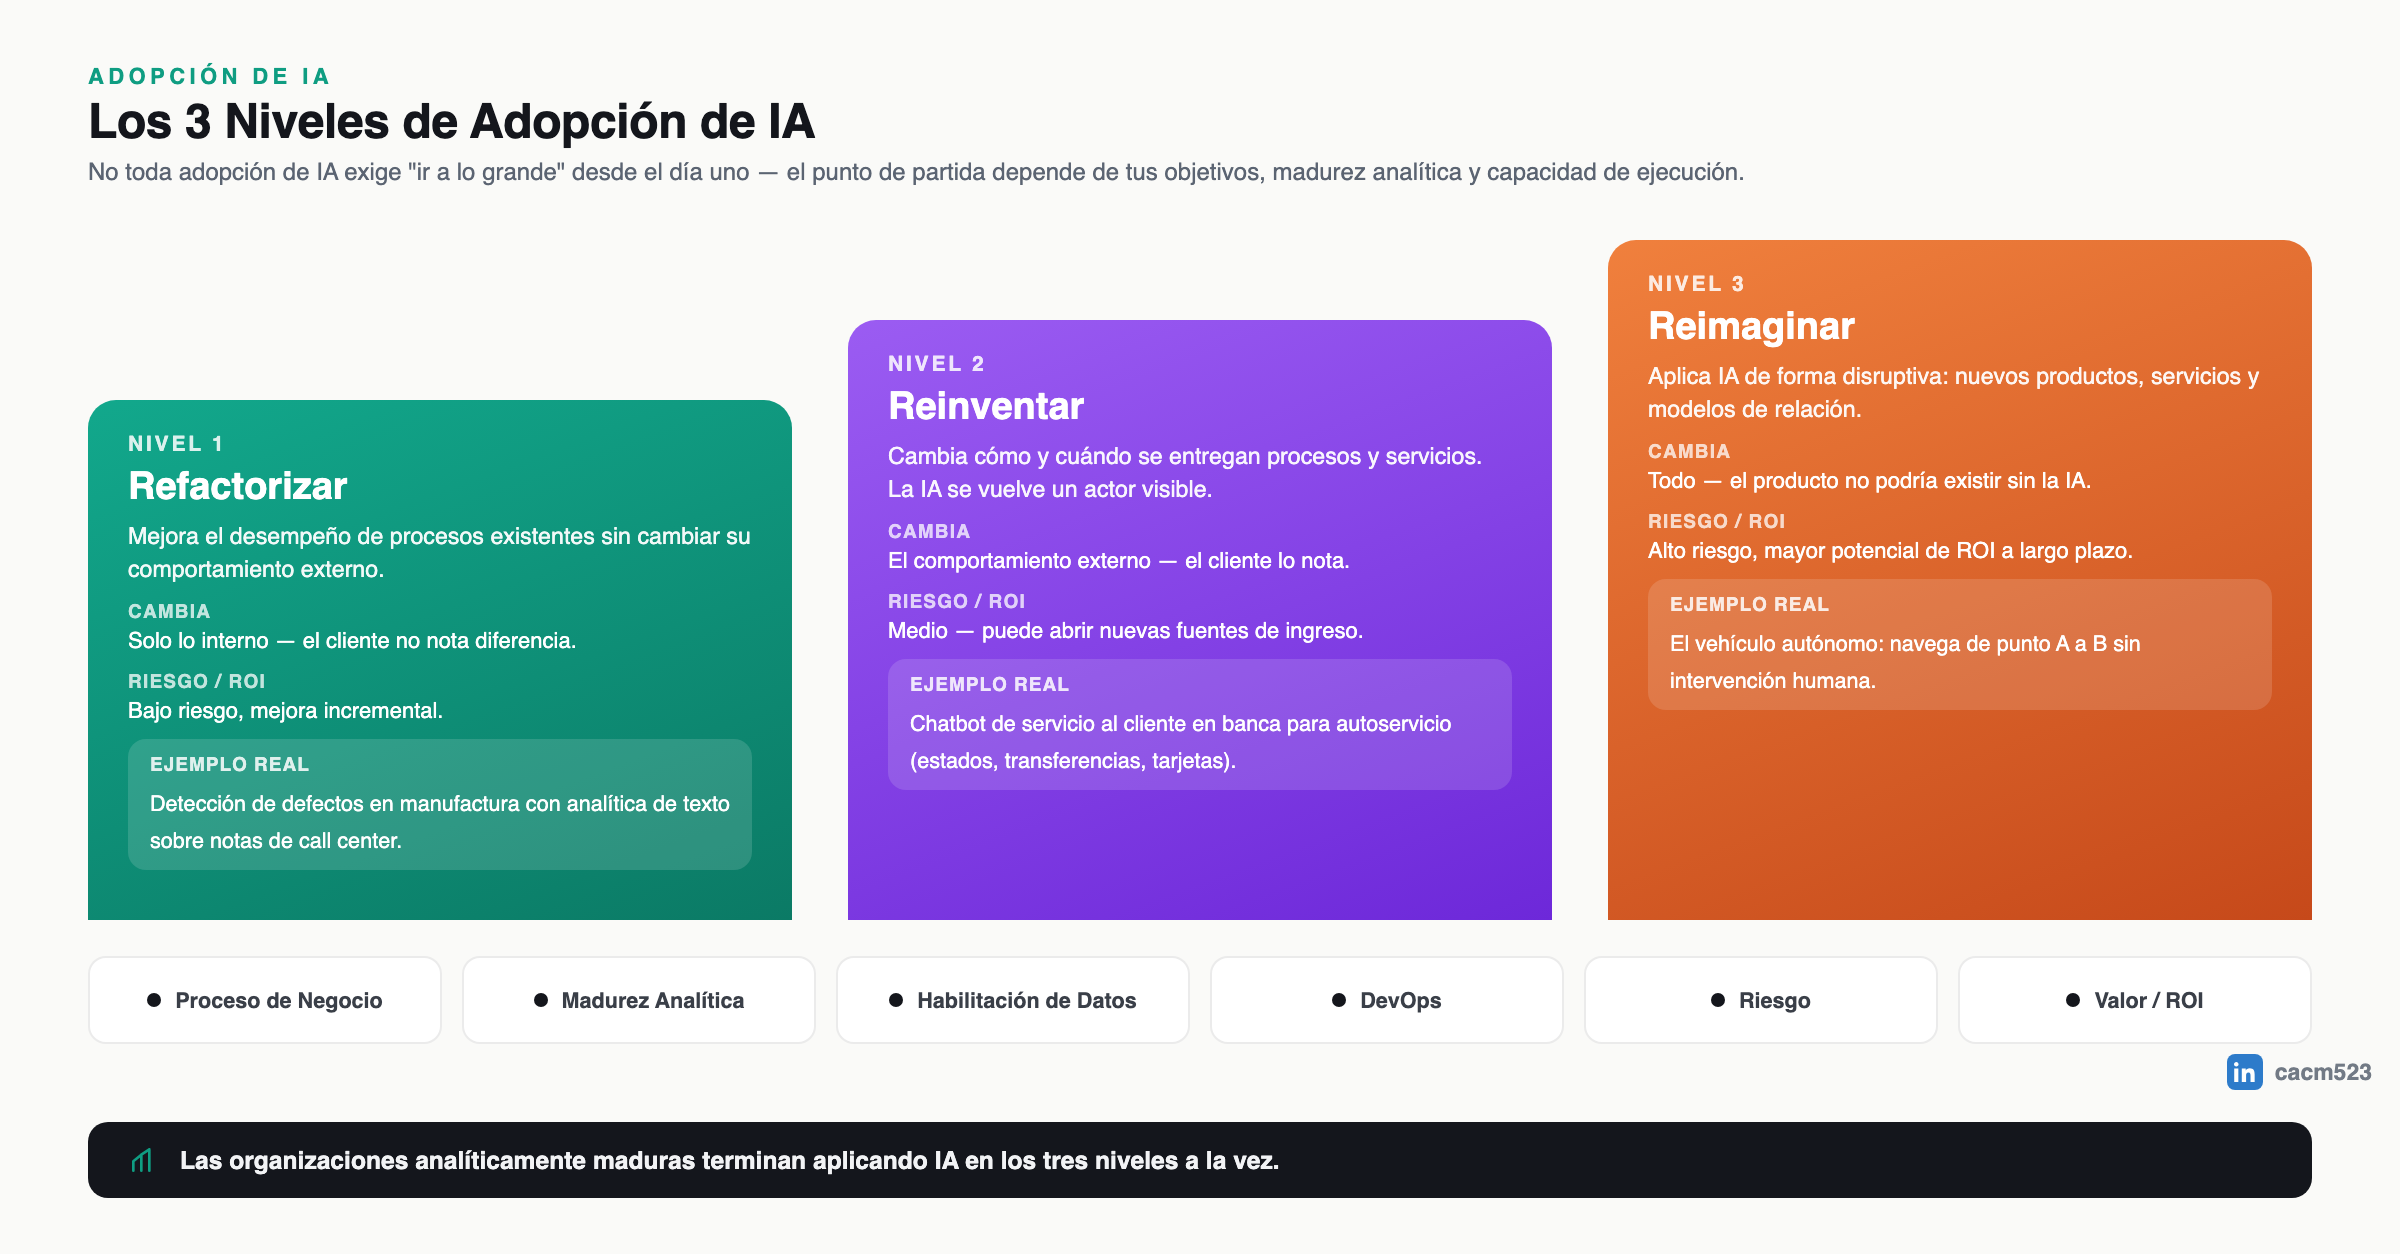
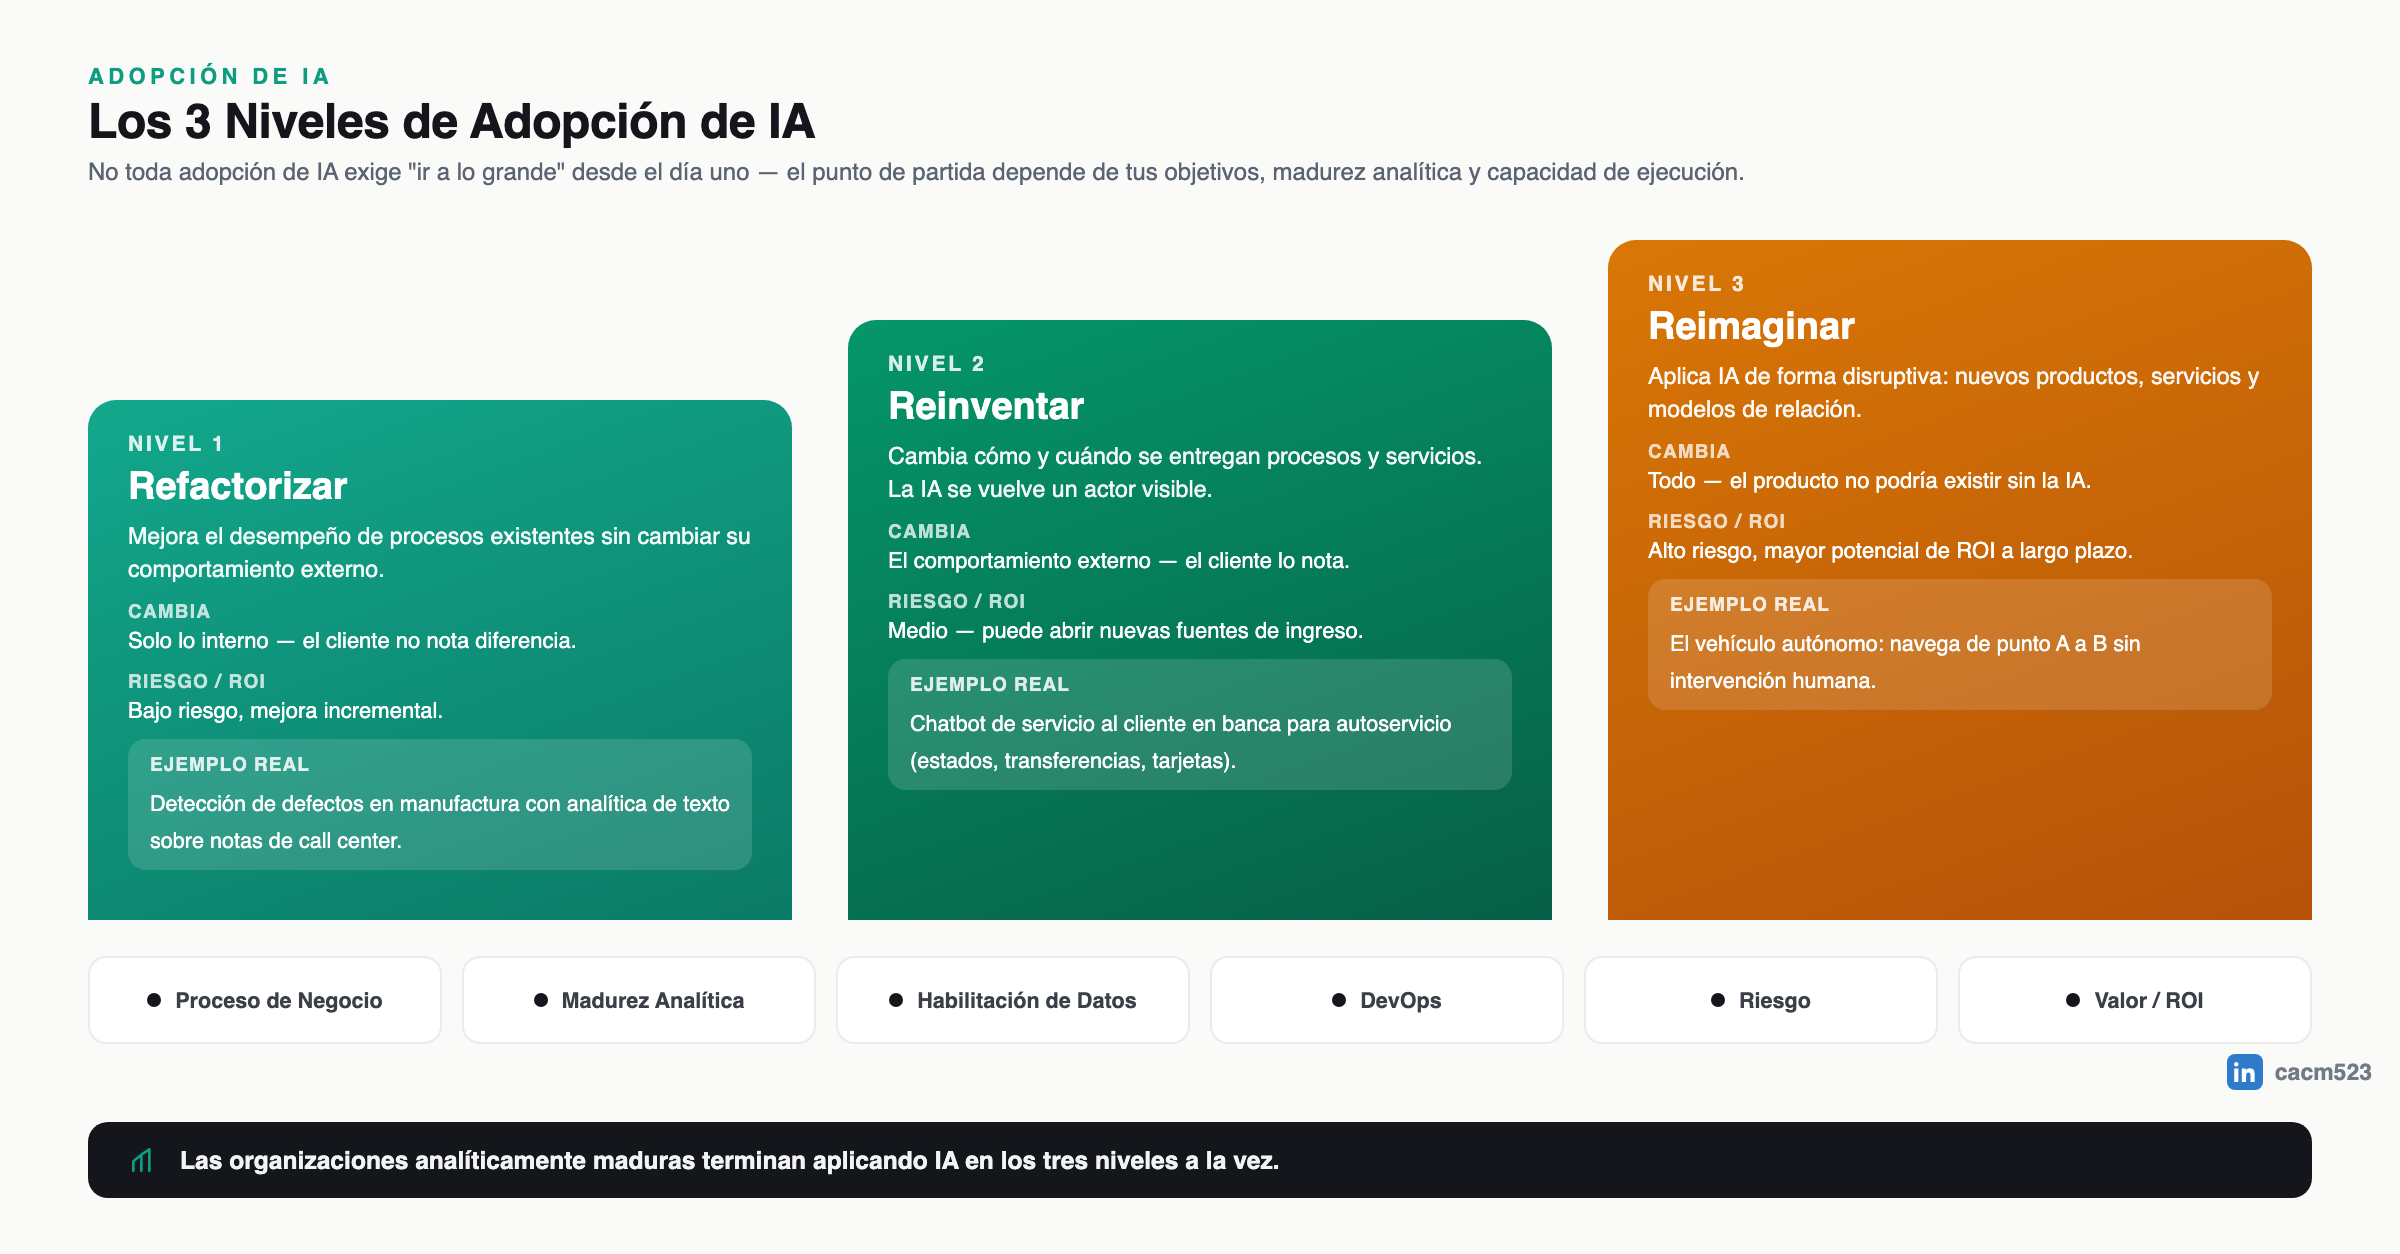
Tanda 2 (inteligencia-artificial): corrige paleta fuera de sistema en 2 de 3 piezas
- metricas-modelos-ia: de azul/verde a tierra/verde para las dos categorías de métricas
- adopcion-ia: Nivel 2 de púrpura a verde intermedio, Nivel 3 ajustado al tono tierra del spec
- algoritmos-machine-learning-normalizacion: revisada, ya cumplía el sistema de diseño, sin cambios

Changed region(s): [[0.3438, 0.1866, 0.9688, 0.7464]]

diff --git a/Construidos/Metricas_Modelos_IA/metricas-modelos-ia.html b/Construidos/Metricas_Modelos_IA/metricas-modelos-ia.html
@@ -8,7 +8,7 @@
   body { width:1264px; height:691px; padding:32px; background:#EDEFF3; font-family:-apple-system,"SF Pro Display","Segoe UI",Inter,Helvetica,Arial,sans-serif; }
   .canvas { position:relative; width:1200px; height:627px; background:#FAFAF8; overflow:hidden; }
 
-  .eyebrow { position:absolute; top:28px; left:42px; font-size:10.5px; font-weight:700; letter-spacing:2.1px; color:#2B4C9E; text-transform:uppercase; }
+  .eyebrow { position:absolute; top:28px; left:42px; font-size:10.5px; font-weight:700; letter-spacing:2.1px; color:#92400E; text-transform:uppercase; }
   .title { position:absolute; top:42px; left:42px; font-size:21px; font-weight:800; color:#14161C; letter-spacing:-0.2px; }
   .subtitle { position:absolute; top:68px; left:42px; width:1116px; font-size:11.2px; color:#5B6472; }
 
@@ -51,13 +51,13 @@
   <div class="tables">
 
     <div class="tcol">
-      <div class="thead"><div class="dot" style="background:#2B4C9E;"></div><span style="color:#2B4C9E;">Métricas de Regresión</span><small>predicen un valor continuo</small></div>
-      <div class="trow"><div class="badge" style="background:#2B4C9E;"><span>1</span></div><div class="name">MAE</div><div class="desc"><b>Error absoluto promedio</b> entre predicción y valor real. Uso: interpretación directa, error en unidades reales.</div></div>
-      <div class="trow"><div class="badge" style="background:#3358B0;"><span>2</span></div><div class="name">MSE</div><div class="desc"><b>Error cuadrático promedio</b>; penaliza más los errores grandes. Uso: optimización de modelos.</div></div>
-      <div class="trow"><div class="badge" style="background:#3B64C2;"><span>3</span></div><div class="name">RMSE</div><div class="desc"><b>Raíz del MSE</b>, en la unidad original. Uso: comparar modelos entre sí.</div></div>
-      <div class="trow"><div class="badge" style="background:#4470D4;"><span>4</span></div><div class="name">R²</div><div class="desc"><b>Proporción de variabilidad</b> explicada por el modelo. Uso: ajuste global, varianza explicada.</div></div>
-      <div class="trow"><div class="badge" style="background:#4D7CE6;"><span>5</span></div><div class="name">R² ajustado</div><div class="desc">Versión de R² que <b>penaliza variables innecesarias</b>. Uso: comparar modelos, elegir variables.</div></div>
-      <div class="trow"><div class="badge" style="background:#5A89F0;"><span>6</span></div><div class="name">MAPE</div><div class="desc"><b>Error porcentual</b> absoluto medio. Uso: forecasting, ventas y demanda.</div></div>
+      <div class="thead"><div class="dot" style="background:#92400E;"></div><span style="color:#92400E;">Métricas de Regresión</span><small>predicen un valor continuo</small></div>
+      <div class="trow"><div class="badge" style="background:#92400E;"><span>1</span></div><div class="name">MAE</div><div class="desc"><b>Error absoluto promedio</b> entre predicción y valor real. Uso: interpretación directa, error en unidades reales.</div></div>
+      <div class="trow"><div class="badge" style="background:#A3510F;"><span>2</span></div><div class="name">MSE</div><div class="desc"><b>Error cuadrático promedio</b>; penaliza más los errores grandes. Uso: optimización de modelos.</div></div>
+      <div class="trow"><div class="badge" style="background:#B45309;"><span>3</span></div><div class="name">RMSE</div><div class="desc"><b>Raíz del MSE</b>, en la unidad original. Uso: comparar modelos entre sí.</div></div>
+      <div class="trow"><div class="badge" style="background:#C2670E;"><span>4</span></div><div class="name">R²</div><div class="desc"><b>Proporción de variabilidad</b> explicada por el modelo. Uso: ajuste global, varianza explicada.</div></div>
+      <div class="trow"><div class="badge" style="background:#D97706;"><span>5</span></div><div class="name">R² ajustado</div><div class="desc">Versión de R² que <b>penaliza variables innecesarias</b>. Uso: comparar modelos, elegir variables.</div></div>
+      <div class="trow"><div class="badge" style="background:#E08A1E;"><span>6</span></div><div class="name">MAPE</div><div class="desc"><b>Error porcentual</b> absoluto medio. Uso: forecasting, ventas y demanda.</div></div>
     </div>
 
     <div class="tcol">

diff --git a/Construidos/Adopcion_IA/adopcion-ia.html b/Construidos/Adopcion_IA/adopcion-ia.html
@@ -15,8 +15,8 @@
   .stairs { position:absolute; top:118px; left:44px; width:1112px; height:342px; }
   .step { position:absolute; width:352px; border-radius:14px 14px 0 0; color:#fff; padding:16px 20px; display:flex; flex-direction:column; }
   .s1 { left:0px; width:352px; top:82px; height:260px; background:linear-gradient(160deg,#12A88C,#0B7A65); }
-  .s2 { left:380px; width:352px; top:42px; height:300px; background:linear-gradient(160deg,#9B5CF2,#6D28D9); }
-  .s3 { left:760px; width:352px; top:2px; height:340px; background:linear-gradient(160deg,#F0803D,#C6491A); }
+  .s2 { left:380px; width:352px; top:42px; height:300px; background:linear-gradient(160deg,#059669,#065F46); }
+  .s3 { left:760px; width:352px; top:2px; height:340px; background:linear-gradient(160deg,#D97706,#B45309); }
 
   .step .lvl { font-size:10.5px; font-weight:800; letter-spacing:1.4px; text-transform:uppercase; opacity:0.85; }
   .step .name { margin-top:4px; font-size:19px; font-weight:800; }
